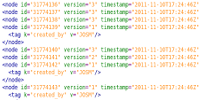
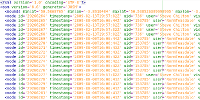
Update images

diff --git a/fosm.org/devonshire/index.html b/fosm.org/devonshire/index.html
@@ -45,7 +45,7 @@
 		</div>
 		<div id="column1"> 
 			<h2>Geodata</h2>
-			<p><img border="1" src="data.png" alt="xml data"></p>
+			<p><img border="1" src="data.png" alt="xml data" width="200"></p>
 			<p>Our geodata is stored in the standard OpenStreetMap format as a set of points, 
 			lines and areas making it usable for many purposes.</p>
 			<p> It can be used to make custom designed maps, to create routing applications 
@@ -56,7 +56,7 @@
 		<div id="col2outer"> 
 			<div id="column2"> 
 				<h2>Contribute</h2>
-				<p><img border="1" src="josm.png" alt="josm"></p>
+				<p><img border="1" src="josm.png" alt="josm" width="200"></p>
 				<p>New contributors are very welcome.</p>
 				<p>If you would like to try it out just <a href="http://fosm.org/user/new">create an 
 				   account</a> and configure your favorite editor. We currently support JOSM and Merkaartor. 
